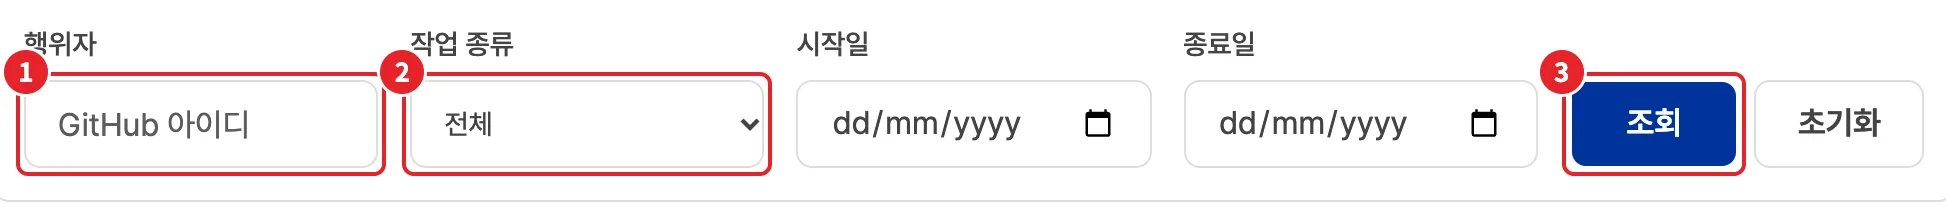
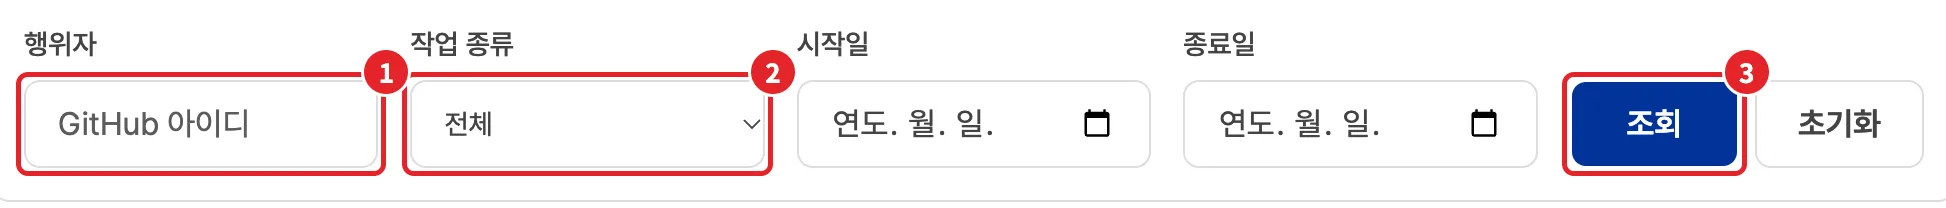
fix(website): 캡처 여백 도구를 고치고 번호 배지를 바로잡은 화면을 싣는다
표시 없는 locator 샷에 여백이 없어 내용이 가장자리에 붙었으므로 모든 locator 샷에 12px 여백을 넣는다.
요소에 맞춰 자르는 clipAround와 여백을 재는 margin-check.py를 더하고 잘림 기준을 캡처 지시서에 적는다.
번호 배지 위치를 고쳐 다시 찍은 화면을 싣고, 신청서 팀 이름 칸의 예시 글자를 본문에 설명한다.

diff --git a/skills/build-user-guide-site/scripts/margin-check.py b/skills/build-user-guide-site/scripts/margin-check.py
@@ -1,0 +1,16 @@
+import glob,sys
+from PIL import Image
+import numpy as np
+def first(lines):
+    for i,l in enumerate(lines):
+        if (np.abs(l-np.median(l))>40).mean()>0.004: return i/2
+    return len(lines)/2
+rows=[]
+for f in sorted(glob.glob('website/src/assets/shots/**/*.webp',recursive=True)):
+    a=np.asarray(Image.open(f).convert('L')).astype(int);h,w=a.shape
+    m=dict(t=first(a),b=first(a[::-1]),l=first(a.T),r=first(a.T[::-1]))
+    rows.append((f.split('shots/')[1],w//2,h//2,m))
+th=float(sys.argv[1]) if len(sys.argv)>1 else 6
+bad=[r for r in rows if min(r[3].values())<th]
+print(len(rows),len(bad))
+for n,w,h,m in bad: print(f"{n:48}{w:5}x{h:<5}"," ".join(f"{k}{v:g}" for k,v in m.items()))

diff --git a/skills/build-user-guide-site/references/capture-brief.md b/skills/build-user-guide-site/references/capture-brief.md
@@ -15,10 +15,11 @@ OSS Hub 사용자 가이드 사이트(`website/`)에 실을 실제 화면을 찍
 ## 사용법
 
 ```js
-import { openAs, visit, shot, closeAll } from '<ROOT>/skills/build-user-guide-site/scripts/capture-lib.mjs';
+import { openAs, visit, shot, clipAround, closeAll } from '<ROOT>/skills/build-user-guide-site/scripts/capture-lib.mjs';
 const p = await openAs('<login>');
 await visit(p, '/my-repos');
 await shot(p, 'student', 'my-repos', { fullPage, clip, locator });
+const clip = await clipAround(p, [p.getByRole('heading', { name: '제목' }), p.locator('tbody tr').nth(4)]);
 await closeAll();
 ```
 
@@ -29,6 +30,12 @@ await closeAll();
 ## 촬영 기준
 
 - **한 장에 한 동작.** 본문 폭은 약 760px입니다. 1280px 전체 화면은 글자가 작아지므로, 화면 위치를 알려 주는 전체 화면은 절 시작에만 쓰고 나머지는 `locator`나 `clip`으로 카드, 표, 대화상자에 맞춥니다. 대화상자는 대화상자 요소만 찍습니다.
+- **잘리지 않게 찍습니다.** 독자가 "잘린 사진"으로 느끼는 경우는 네 가지입니다. 모두 다시 찍습니다.
+  - 가장자리에 줄이나 카드가 반쯤 걸린 사진. 아래쪽 경계는 줄과 줄, 카드와 카드 사이에 둡니다. `clip`을 눈대중 숫자로 정하지 말고 `clipAround(page, [첫 요소, 마지막 요소])`로 요소에 맞춥니다.
+  - 내용이 가장자리에 붙은 사진. 사방에 12px 이상 여백을 둡니다. `locator`로 찍으면 `shot`이 여백을 넣습니다. 둥근 카드 모서리가 잘려도 안 됩니다.
+  - 어느 화면인지 모르는 사진. 표의 한 줄만, 입력칸 한 줄만 찍지 않습니다. 구역 제목이나 표 머리글까지 함께 찍습니다. 높이 100px 미만의 띠 모양 사진은 대개 여기에 해당합니다.
+  - 내려 놓은 메뉴 뒤의 표 글자가 양옆으로 잘린 사진. 본문 영역 너비 전체를 찍습니다.
+  - 찍은 뒤 `python3 scripts/margin-check.py`로 가장자리 여백을 잽니다. `b0`처럼 0에 가까운 값이 나오면 이미지를 열어 확인합니다. 화면 전체를 찍은 사진의 어두운 배경은 예외입니다.
 - 글자가 잘리거나 로딩 중이거나 스켈레톤, 스피너가 남아 있으면 안 됩니다. 애니메이션과 데이터 로딩이 끝난 뒤 찍습니다.
 - 찍은 뒤 이미지를 Read로 직접 열어 확인합니다. 잘림, 빈 화면, 오류, 어색한 데이터가 보이면 다시 찍습니다.
 - 실제 이메일, 실제 사람 이름, 실제 GitHub 계정, 토큰이 보이면 찍지 말고 보고합니다. `allowLeak`은 쓰지 않습니다.

diff --git a/skills/build-user-guide-site/SKILL.md b/skills/build-user-guide-site/SKILL.md
@@ -8,7 +8,7 @@ description: >-
   서브에이전트를 병렬로 돌려 캡처·집필·사실 확인·시각 검수·윤문을 하고,
   마일스톤마다 커밋·푸시·Pages 확인을 반복한다. 노션 핸드북은 build-oss-hub-handbook, PR은 submit-pr-evidence를 쓴다.
 metadata:
-  version: "1.0.4"
+  version: "1.0.5"
 ---
 
 # 사용자 가이드 사이트 만들기와 갱신
@@ -58,7 +58,7 @@ metadata:
 
 1. 보고한 시각 이후에 파일이 만들어졌는지(`ls -lT`).
 2. 장수가 맞는지.
-3. `scripts/contact-sheet.py <이미지 폴더> <출력 접두사>`로 접촉 인쇄를 만들어 눈으로 본다. 안 가려진 개인정보, 잘린 글자, 로딩 상태, 빨간 박스 위치, 개발 배지.
+3. `scripts/margin-check.py`로 여백을 재고, `scripts/contact-sheet.py <이미지 폴더> <출력 접두사>`로 접촉 인쇄를 만들어 눈으로 본다. 안 가려진 개인정보, 잘린 글자, 가장자리에 걸린 줄, 로딩 상태, 빨간 박스 위치, 개발 배지.
 4. 본문 금지어 grep, 빌드.
 
 눈으로 보기 전에는 커밋하지 않는다.
@@ -74,6 +74,7 @@ metadata:
 | 파일 | 용도 |
 |---|---|
 | `scripts/capture-lib.mjs` | 합성 페르소나 세션, 블러, 빨간 박스, webp 저장. 박스 대상이 20px 미만이면 오류. `SESSION_SECRET` 환경 변수 필요 |
+| `scripts/margin-check.py` | 이미지 네 가장자리의 여백을 CSS px로 재서 내용이 붙거나 잘린 이미지를 찾는다 |
 | `scripts/smoke.mjs` | `node smoke.mjs <login\|anon> <경로>...` 경로가 열리는지, 개인정보와 개발 배지가 새는지 |
 | `scripts/visual-audit.mjs` | 배포 사이트를 네 조합으로 점검 |
 | `scripts/contact-sheet.py` | 이미지 접촉 인쇄(오케스트레이터 검수용) |

diff --git a/skills/build-user-guide-site/CHANGELOG.md b/skills/build-user-guide-site/CHANGELOG.md
@@ -3,3 +3,4 @@
 - 2026-11-02 — v1.0.2: 한 번의 윤문이 오류만 고치고 문장 흐름은 남긴 일이 있었다 → 윤문을 오류와 흐름 두 차례로 나누고 임시 배포 설정을 브랜치 이름과 무관하게 적었다. Provenance: 2026-11-02 사용자 요청 "한국어 윤문도 꼭 해줘야해영".
 - 2026-11-02 — v1.0.3: 박스 왼쪽 위 번호 배지가 입력칸 라벨과 제목 첫 글자를 가린 이미지가 약 30장 나왔다 → `capture-lib`의 배지를 박스 오른쪽 위로 옮기고, 작은 대상의 박스와 글자를 가로지르는 박스를 고르는 기준을 캡처 지시서에 더했다. Provenance: 2026-11-02 전체 이미지 검수.
 - 2026-11-02 — v1.0.4: 큰 Noto Sans KR 제목, 고정폭 라벨 칩, 본문 폭으로 늘어난 작은 대화상자가 투박해 보인다는 평을 받았다 → 글꼴을 제품과 같은 Pretendard로 바꾸고, 라벨을 굵은 글자로, 이미지를 원본 크기 이하로 표시하는 기준을 적었다. Provenance: 2026-11-02 사용자 요청 "글씨체도 투박하고, professional해보이지 않는다".
+- 2026-11-02 — v1.0.5: 이미지가 과하게 잘렸다는 평을 받았고, 재 보니 표시 없는 `locator` 샷에 여백이 전혀 없었고 눈대중 `clip`이 줄 중간에서 끊겼다 → `shot`의 모든 `locator` 샷에 12px 여백을 넣고, 요소에 맞춰 잘라 주는 `clipAround`와 여백을 재는 `margin-check.py`를 더하고, 잘림 기준을 캡처 지시서에 적었다. Provenance: 2026-11-02 사용자 요청 "이미지가 과하게 잘린 부분도 있던데?".
